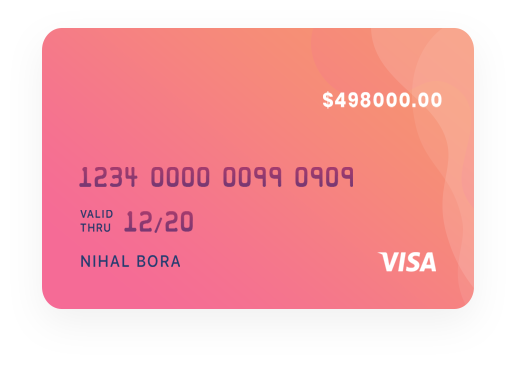
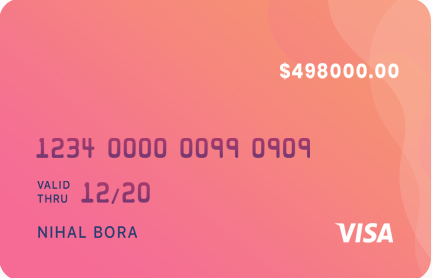
Last fixes

diff --git a/assets/css/main.css b/assets/css/main.css
@@ -778,34 +778,29 @@ position: absolute;
   margin-right: -200px;
 }
 
-.atvImg .img {
+.img {
   margin: 0 10px;
   position: relative;
   overflow: hidden;
   display: inline-block;
   height: 100px;
   width: 160px;
-  /* animation: card 4s infinite; */
   animation-timing-function: linear;
   border-radius: 10px;
-  /* box-shadow: 0 0 20px rgba(0, 0, 0, 0.35); */
   transition: all 0.3s linear;
-  background: url(../img/card2.png);
+  background-image: url(../img/card2.png);
   background-repeat: no-repeat;
   background-size: cover;
-  /* animation: card 10.5s linear infinite; */
+}
+.card1 {
+  background-image: url('../img/card1.png');
+}
+.card2 {
+  background-image: url('../img/card2.png');
 }
 
-.atvImg .img:nth-child(1) {
-  /*animation: card 6s infinite;*/
-  /*background-image: url('../img/card.png');*/
-  /*animation: card 10.5s linear infinite ;*/
-}
-
-.atvImg .img:nth-child(3) {
-  /*animation: card 6s infinite;*/
-  background-image: url('../img/card.png');
-  /* animation: card 10.5s linear infinite; */
+.card3 {
+  background-image: url('../img/card3.png');
 }
 
 .atvImg .img:nth-child(1)::after, .atvImg .img:nth-child(2)::after, .atvImg .img:nth-child(3)::after {

diff --git a/card.html b/card.html
@@ -16,18 +16,12 @@
     </p>
     <div class="cover_wrapper F_RCC">
       <div class="cover  atvImg" >
-        <div class="F_CCC">
-          <div class="img card img1"  >
+          <div class="img card1 "  >
           </div>
-        </div>
-        <div class="F_CCC">
-          <div class="img card img1"  >
+          <div class="img card2 "  >
           </div>
-        </div>
-        <div class="F_CCC">
-          <div class="img card img1"  >
+          <div class="img card3"  >
           </div>
-        </div>
       </div>
     </div>
     <div class="purchase w50 marb10 mart20 fvh3_6 btn_pulse_bg_wave" ng-click="pay()"><span>Buy Now!</span> US$14.99</div>
